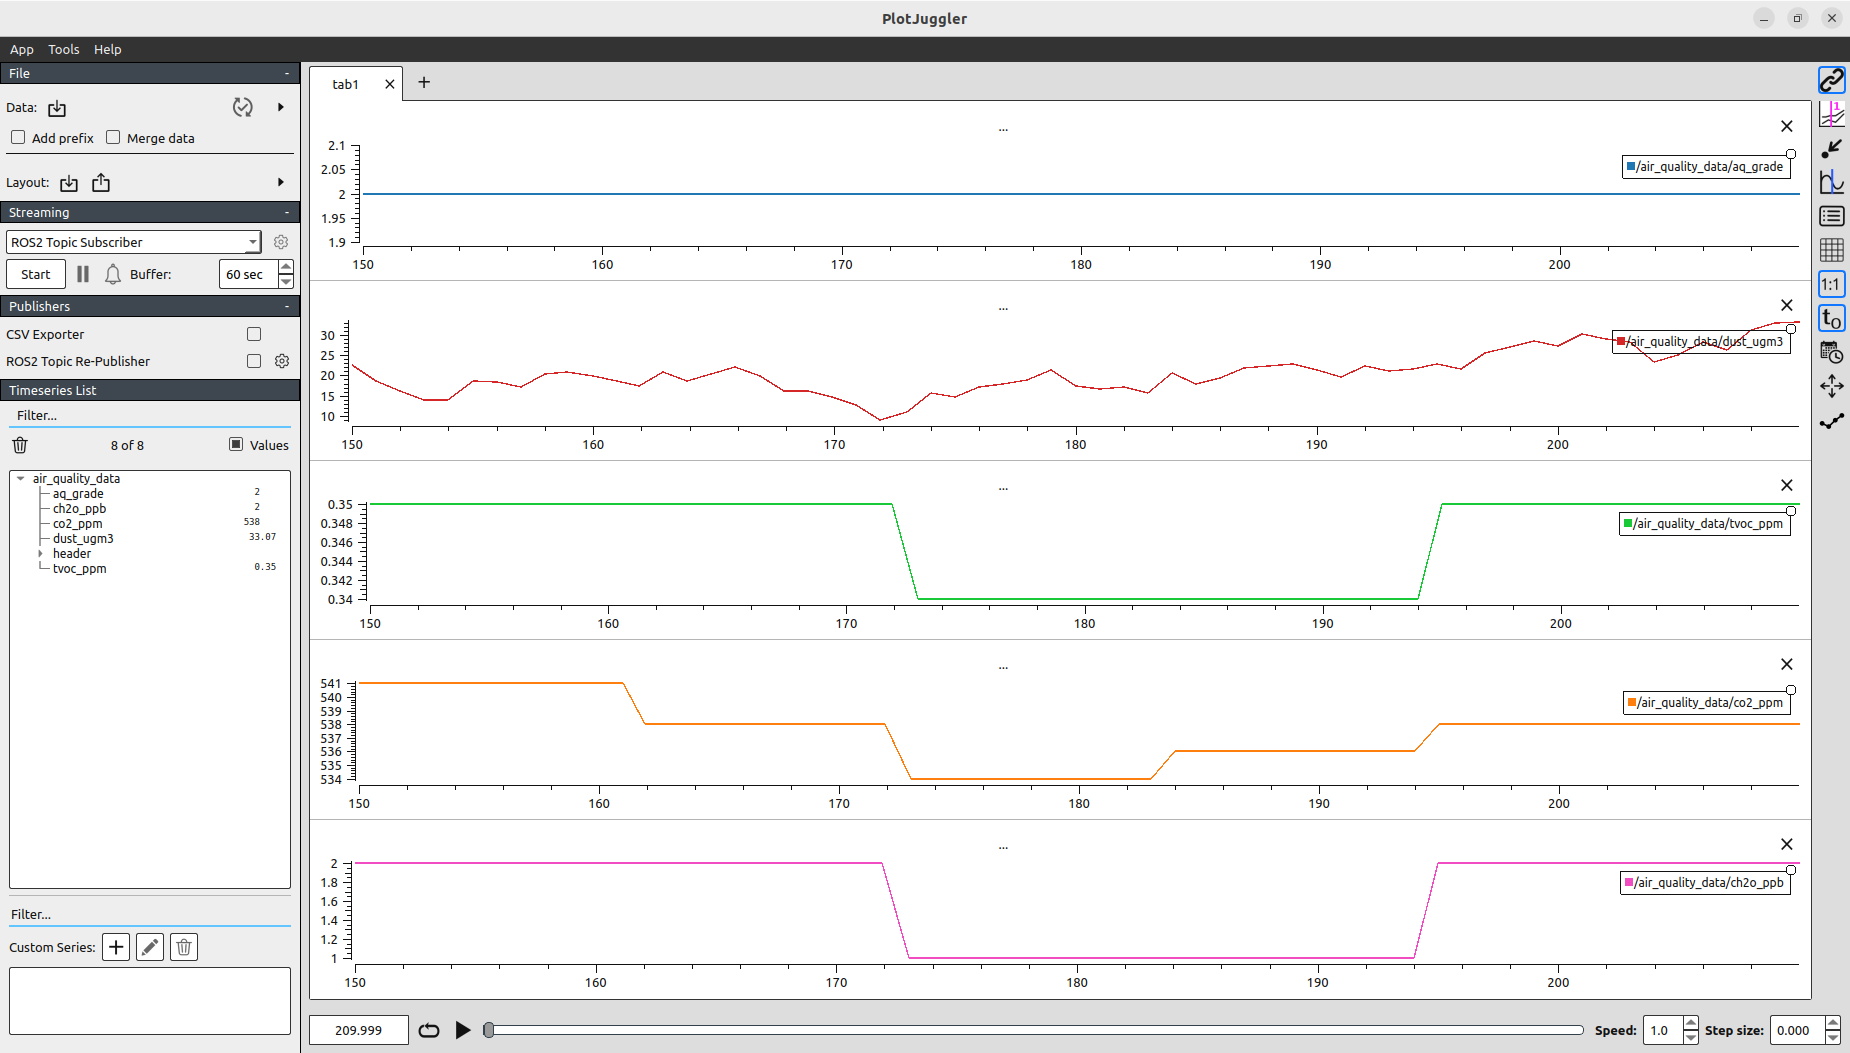
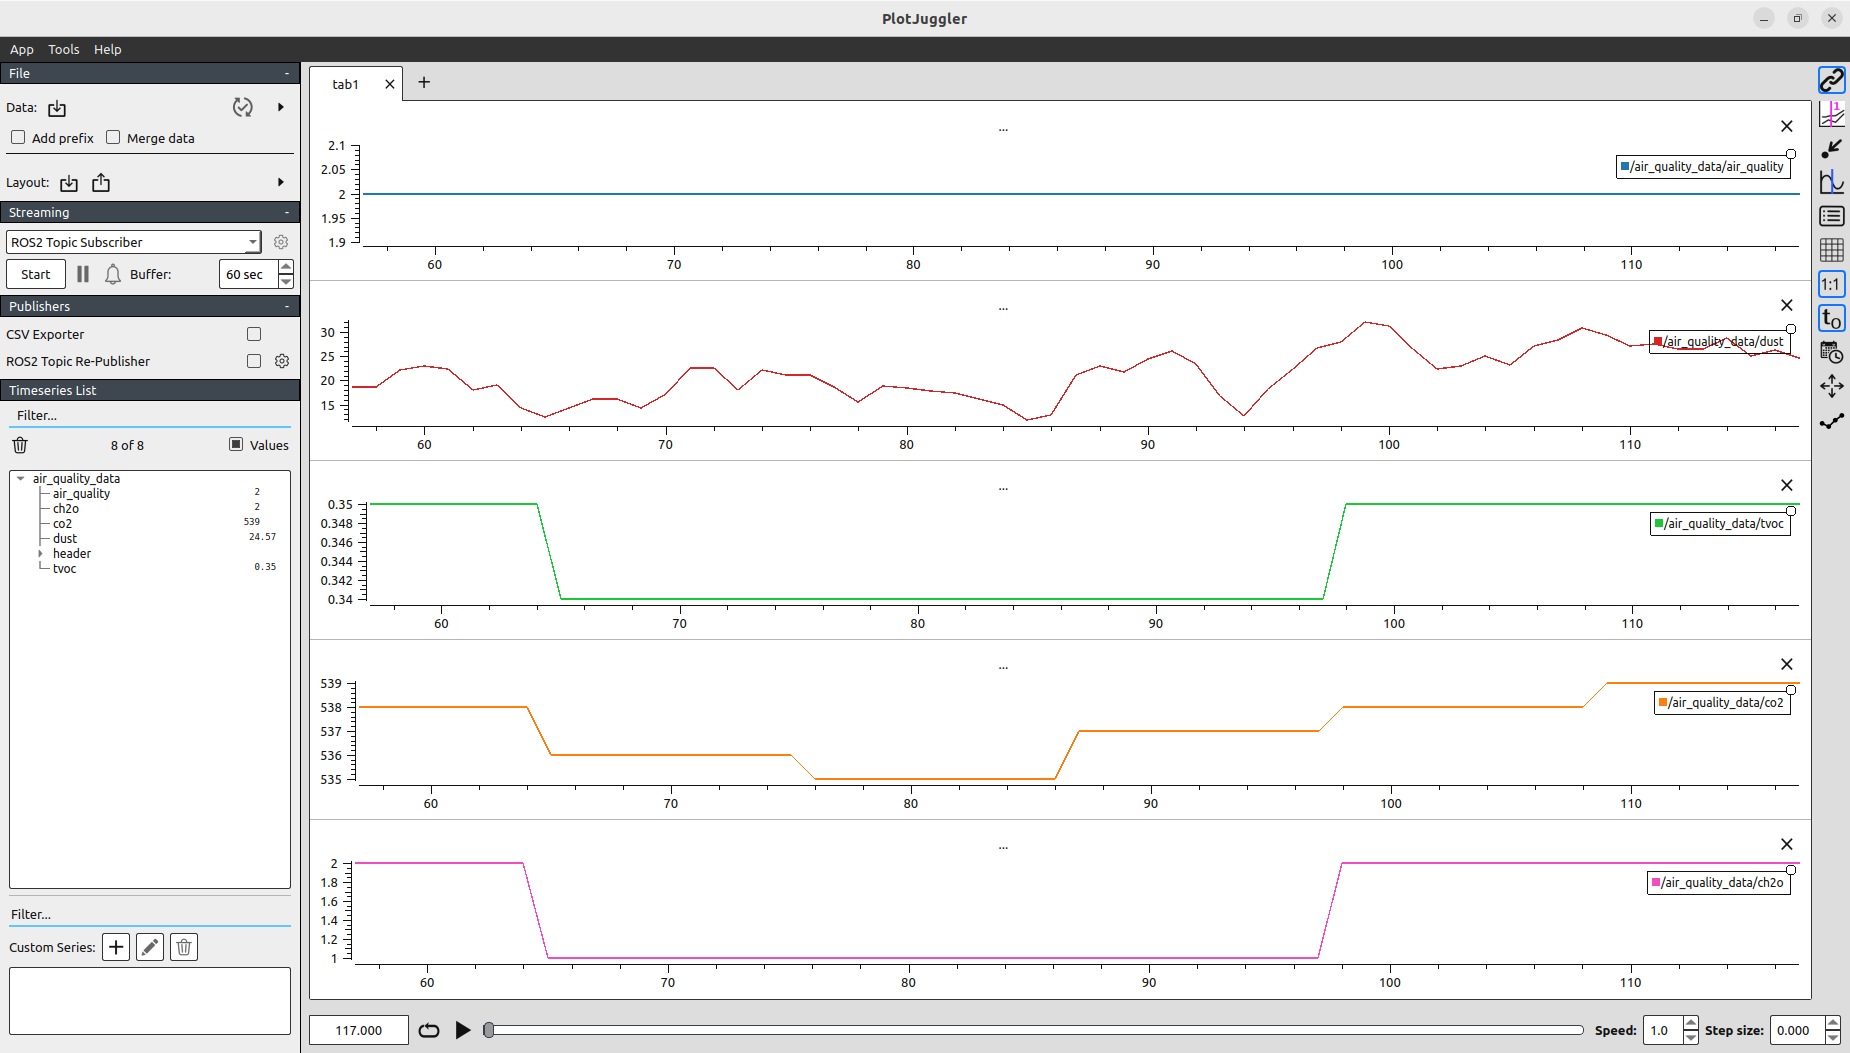
units

diff --git a/air_ws/src/aq_driver/aq_driver/serial_reader.py b/air_ws/src/aq_driver/aq_driver/serial_reader.py
@@ -57,14 +57,14 @@ class AirQualitySerialNode(Node):
                 
                 # 简单校验
                 if len(parts) == 7 and parts[0] == '$START' and parts[6] == '$END':
-                    msg.aq_grade = int(parts[1])
-                    msg.dust_ugm3 = float(parts[2])
-                    msg.tvoc_ppm = float(parts[3])
-                    msg.co2_ppm = int(parts[4])
-                    msg.ch2o_ppb = int(parts[5])
+                    msg.air_quality = int(parts[1])
+                    msg.dust = float(parts[2])
+                    msg.tvoc = float(parts[3])
+                    msg.co2 = int(parts[4])
+                    msg.ch2o = int(parts[5])
 
                     self.publisher_.publish(msg)
-                    # self.get_logger().info(f'Pub Real: TVOC={msg.tvoc_ppm}, Dust={msg.dust_ugm3}')
+                    
                 else:
                     self.get_logger().warn(f'Invalid data format: {line}')
         except Exception as e:
